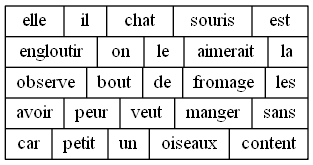
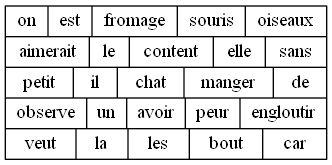
Reorganisation of the input fils

diff --git a/myTest.py b/myTest.py
@@ -1,13 +1,12 @@
 from typing import Text
 from GeneticPGCSOptimizer import GeneticPGCSOptimizer
-from text_generator import TextGenerator
 import matplotlib.pyplot as plt
 
 source_f = "small_entry.txt"
 eval_f = "input_cost.txt"
 
 #New genetic optimizer
-genopti = GeneticPGCSOptimizer(source_f,eval_f,pop_size = 100,gen_number = 100,select_number = 20,randomizer = False)
+genopti = GeneticPGCSOptimizer(source_f,eval_f,pop_size = 500,gen_number = 200,select_number = 75,randomizer = True)
 optimal_grid = genopti.genetic_algorithm()
 history  = genopti.fitness_history()
 

diff --git a/GeneticPGCSOptimizer.py b/GeneticPGCSOptimizer.py
@@ -560,16 +560,13 @@ class GeneticPGCSOptimizer():
       :rtype: list
       '''
 
+      #Initialization of the history
       history = []
 
       #Prepare only the best fitness from each generation
       if(only_best):
         for fitnesses in self.get_fitness_history().values():
+          #Append the best fitness for each generation in the history to return
           history.append(min(fitnesses)[0])
       
       return history
-
-
-
-
-
